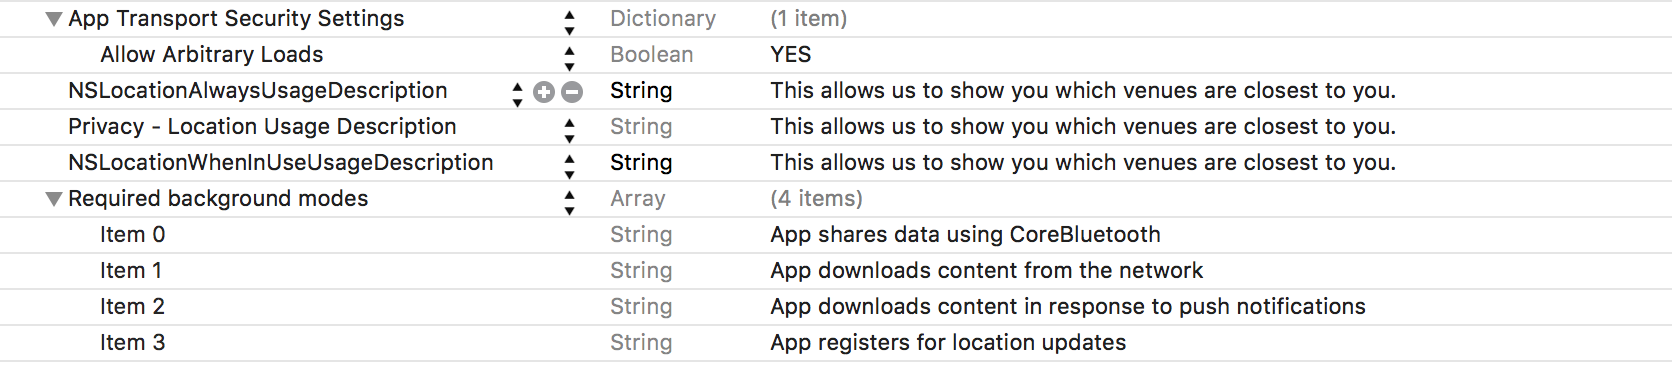
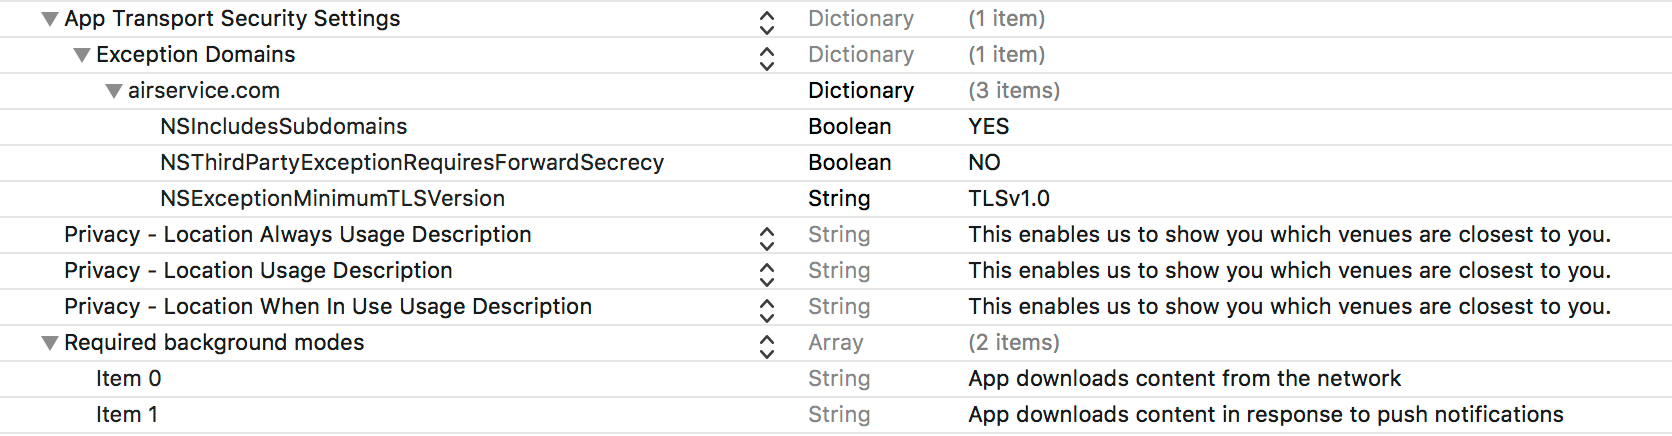
Update readme details for app transport security settings and background modes

Changed region(s): [[0.0, 0.0, 1.0, 1.0]]

diff --git a/iOS/README.md b/iOS/README.md
@@ -28,13 +28,15 @@ The [Examples](https://github.com/airservice/Open-API-and-SDKs/tree/master/iOS/E
 
 ```
 - Required background modes
-	- App shares data using CoreBluetooth
-	- App downloads content from the network
-	- App downloads content in response to push notifications
-	- App registers for location updates
+	- App downloads content from the network (fetch)
+	- App downloads content in response to push notifications (remote-notification)
 
 - App Transport Security Settings
-	- Allow Arbitrary Loads = YES
+	- Exception Domains
+		- airservice.com
+			- NSIncludesSubdomains = YES
+			- NSThirdPartyExceptionRequiresForwardSecrecy = NO
+			- NSExceptionMinimumTLSVersion = TLSv1.0
 
 - Privacy - Location Usage Description =  
 - NSLocationAlwaysUsageDescription = 
